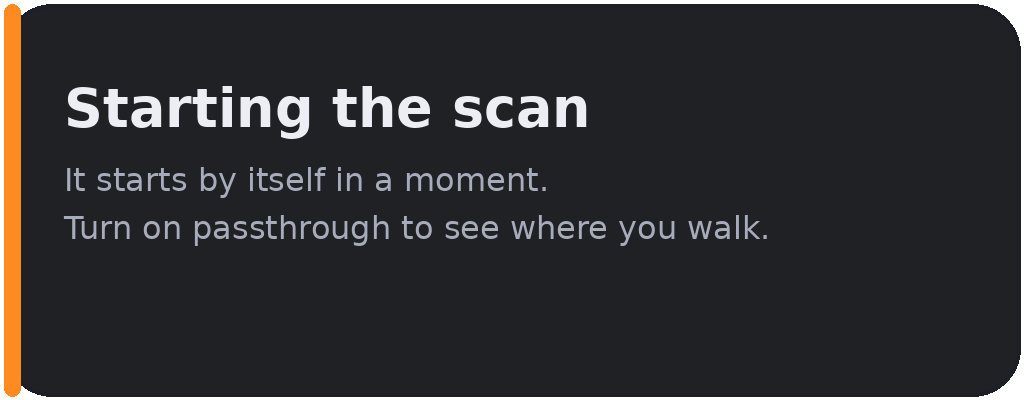
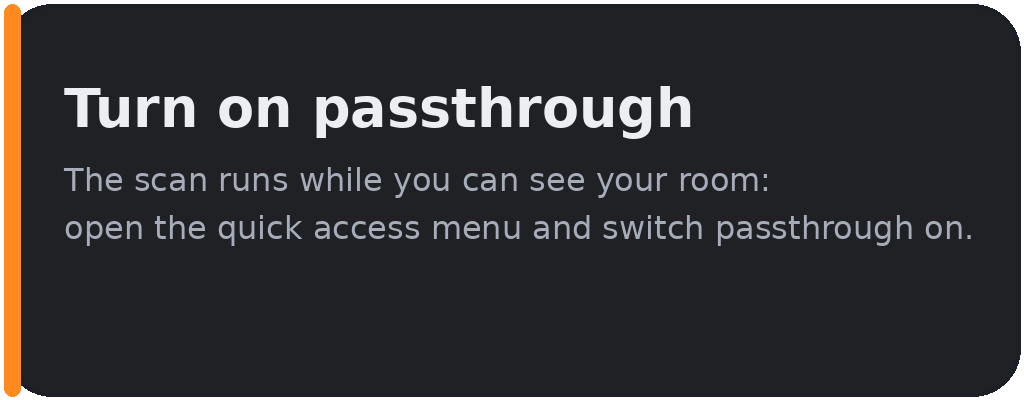
MR scan: record only while passthrough streams meshes (a leftover block started a scan), pause + prompt when it stops, refuse scans under 30 frames

Changed region(s): [[0.0625, 0.21, 0.6875, 0.36], [0.0625, 0.54, 0.9375, 0.63], [0.0625, 0.42, 0.75, 0.48]]

diff --git a/agent/frameport_agent.py b/agent/frameport_agent.py
@@ -4955,10 +4955,14 @@ ROOM_SCAN_LOOK_FRAMES = 5   # recorded frames looking up / down (~1.7 s at 3/s) 
 ROOM_SCAN_MIN_SECONDS = 30  # a complete scan still records this long (more views of every wall)
 
 
-def _prompt_for(started, yaw_bins, pitch):
-    """Which prompt image the headset shows. Valve computes the depth view whenever the cameras run (passthrough
-    visible or not), so "start" is only shown until the first mesh arrives."""
-    if started is None:
+ROOMVIEW_STREAM_MESHES = 3     # new meshes within ROOMVIEW_STREAM_WINDOW s = passthrough is on (Valve: ~30/s)
+ROOMVIEW_STREAM_WINDOW = 2.0
+ROOM_SCAN_MIN_FRAMES = 30      # fewer recorded frames is no room: refused instead of replacing the saved one
+
+
+def _prompt_for(started, yaw_bins, pitch, streaming=True):
+    """Which prompt image the headset shows: "start" (turn on passthrough) whenever no meshes stream, also mid-scan."""
+    if started is None or not streaming:
         return "start"
     if len(yaw_bins) >= 10 and pitch["up"] < ROOM_SCAN_LOOK_FRAMES:
         return "ceiling"
@@ -4983,9 +4987,12 @@ def capture_roomview(seconds, out_path, wait=0.0, max_hz=3.0, progress=None, pro
     offsets, raw_poses = [], []
     yaw_bins, pitch = set(), {"up": 0, "down": 0}
     indices, layout_id, last_mesh, last_write = None, None, None, 0.0
-    last_new = 0.0  # when a new mesh id last arrived: meshIsUpToDate stays true after the headset comes off
+    # Valve only computes new meshes while passthrough is shown; a queue's last block (and meshIsUpToDate) stays
+    # after it stops. So "streaming" = ROOMVIEW_STREAM_MESHES new mesh ids within ROOMVIEW_STREAM_WINDOW seconds, and
+    # frames are recorded only then (2026-10-16: a scan started on one leftover block and recorded nothing else).
+    arrivals = []
     seen_mesh = None
-    started = None
+    started, paused_since, paused_total = None, None, 0.0
     t_end = time.time() + (wait or seconds)
     next_progress = time.time()
     try:
@@ -4993,16 +5000,26 @@ def capture_roomview(seconds, out_path, wait=0.0, max_hz=3.0, progress=None, pro
             f.write(b"FPRS" + struct.pack("<I", 1))
             while time.time() < t_end:
                 now = time.time()
+                arrivals = [t for t in arrivals if now - t < ROOMVIEW_STREAM_WINDOW]
+                streaming = len(arrivals) >= ROOMVIEW_STREAM_MESHES
+                if started is not None:  # passthrough off mid-scan: the countdown waits (at most `wait` in all)
+                    if not streaming and paused_since is None:
+                        paused_since = now
+                    elif streaming and paused_since is not None:
+                        pause = min(now - paused_since, max(0.0, (wait or seconds) - paused_total))
+                        t_end += pause
+                        paused_total += pause
+                        paused_since = None
                 if _scan_complete(started, now, yaw_bins, pitch):
                     break  # every direction, the ceiling and the floor seen: "Room scanned" at once
                 if now >= next_progress:
-                    live = now - last_new < 2.0
                     if prompt:
-                        prompt.show(_prompt_for(started, yaw_bins, pitch))
+                        prompt.show(_prompt_for(started, yaw_bins, pitch, streaming))
                     if progress:
                         progress({"recording": started is not None, "frames": len(offsets),
-                                  "seconds": round(now - started, 1) if started else 0,
-                                  "directions": len(yaw_bins), "looked_up": pitch["up"], "live": live})
+                                  "seconds": round(now - started - paused_total, 1) if started else 0,
+                                  "directions": len(yaw_bins), "looked_up": pitch["up"],
+                                  "looked_down": pitch["down"], "live": streaming})
                     next_progress = now + 1
                 blk, buf = rv.acquire(rv.data, 1, 200)  # EBlockQueueReadType_New
                 if blk is None:
@@ -5010,8 +5027,9 @@ def capture_roomview(seconds, out_path, wait=0.0, max_hz=3.0, progress=None, pro
                 try:
                     mesh_id = rv.prop(blk.value, "/meshData/meshId", "<Q")
                     if mesh_id != seen_mesh:
-                        seen_mesh, last_new = mesh_id, now
-                    if not rv.up_to_date() or now - last_write < 1.0 / max_hz:
+                        seen_mesh = mesh_id
+                        arrivals.append(now)
+                    if not streaming or not rv.up_to_date() or now - last_write < 1.0 / max_hz:
                         continue
                     lid = rv.prop(blk.value, "/meshData/layoutId", "<Q")
                     count = rv.prop(blk.value, "/meshData/elementCount", "<i") or 0
@@ -5121,8 +5139,9 @@ def room_capture_worker(payload):
                                    prompts=ROOM_SCAN_PROMPTS if os.path.isdir(ROOM_SCAN_PROMPTS) else None)
         status.update(capture=summary, state="building")
         _write_json(ROOM_SCAN_STATUS, status)
-        if not summary["frames"]:
-            raise AgentError("No passthrough view arrived: turn on passthrough in the headset and scan again")
+        if summary["frames"] < ROOM_SCAN_MIN_FRAMES:  # never replace a saved room with a scrap of one
+            raise AgentError("The scan saw too little of the room: keep passthrough on, look around until the "
+                             "headset says \"Room scanned\", and scan again")
         built = cmd_room_build({"dump": dump})
         status.update(state="done", report=built.get("report"), room=built.get("room"), finished=time.time())
     except Exception as exc:  # noqa: BLE001 - every failure ends in the status file the PC polls

diff --git a/tests/test_room_capture.py b/tests/test_room_capture.py
@@ -60,13 +60,14 @@ def test_view_coverage_bins(monkeypatch, tmp_path):
 
 
 class FakeReader:
-    """Two fresh mesh blocks, then nothing; raw->standing moves the floor by +0.5 m at the end."""
+    """A stream of six fresh mesh blocks (alternately facing 0 / 90 deg), then nothing; raw->standing moves the
+    floor by +0.5 m at the end. The first two only make the stream count as "passthrough on"."""
 
-    def __init__(self, app_type=None):
+    def __init__(self, app_type=None, blocks=6):
         import ctypes
 
         self.ct = ctypes
-        self.blocks = [(1, rot_y(0, (0, 1.0, 0))), (2, rot_y(90, (0, 1.0, 0)))]
+        self.blocks = [(i, rot_y(90 * (i % 2 == 0), (0, 1.0, 0))) for i in range(1, blocks + 1)]
         self.verts = ctypes.create_string_buffer(struct.pack("<9f", *range(9)))
         self.idx = ctypes.create_string_buffer(struct.pack("<3I", 0, 1, 2))
         self.data, self.layout = "data", "layout"
@@ -102,19 +103,35 @@ def test_capture_rewrites_poses_with_final_transform(monkeypatch, tmp_path):
     a = load_agent(monkeypatch, tmp_path)
     monkeypatch.setattr(a, "_RoomViewReader", FakeReader)
     out = tmp_path / "scan.fprs"
-    clock = iter(i * 0.5 for i in range(1000))
+    clock = iter(i * 0.05 for i in range(10000))
     monkeypatch.setattr(a.time, "time", lambda: next(clock))
     res = a.capture_roomview(3, str(out), max_hz=100)
-    assert res["frames"] == 2
+    assert res["frames"] == 3  # blocks 4-6: three meshes had to stream before the first recorded one
     data = out.read_bytes()
     assert data[:8] == b"FPRS\x01\0\0\0"
     hdr = struct.calcsize(a.FPRS_FRAME)
     t, px, py, pz, qx, qy, qz, qw, vc, ic = struct.unpack_from(a.FPRS_FRAME, data, 8)
     assert (vc, ic) == (3, 3) and py == pytest.approx(1.5)  # raw y 1.0 + the final floor shift 0.5
+    assert qy == pytest.approx(math.sin(math.radians(45)))  # block 4 faces 90 deg
     second = 8 + hdr + 3 * 12 + 3 * 4
     _, _, py2, _, qx2, qy2, qz2, qw2, _, _ = struct.unpack_from(a.FPRS_FRAME, data, second)
-    assert py2 == pytest.approx(1.5) and qy2 == pytest.approx(math.sin(math.radians(45)))
+    assert py2 == pytest.approx(1.5) and qy2 == pytest.approx(0)  # block 5 faces 0 deg
     assert "ceiling not seen: look up" in res["warnings"]
+
+
+def test_capture_ignores_a_leftover_block(monkeypatch, tmp_path):
+    # passthrough off: the queue still hands out its last block once; that is no scan (owner's run, 2026-10-16)
+    a = load_agent(monkeypatch, tmp_path)
+    monkeypatch.setattr(a, "_RoomViewReader", lambda app_type=None: FakeReader(app_type, blocks=1))
+    clock = iter(i * 0.05 for i in range(10000))
+    monkeypatch.setattr(a.time, "time", lambda: next(clock))
+    res = a.capture_roomview(3, str(tmp_path / "scan.fprs"), max_hz=100)
+    assert res["frames"] == 0 and res["warnings"][0].startswith("no passthrough")
+
+
+def test_prompt_asks_for_passthrough_whenever_the_stream_stops(monkeypatch, tmp_path):
+    a = load_agent(monkeypatch, tmp_path)
+    assert a._prompt_for(5.0, {0, 1}, {"up": 0, "down": 0}, streaming=False) == "start"
 
 
 def test_capture_worker_status(monkeypatch, tmp_path):
@@ -123,9 +140,12 @@ def test_capture_worker_status(monkeypatch, tmp_path):
     a.room_capture_worker(json.dumps({"seconds": 10, "wait": 0}))
     st = a.cmd_room_capture_status({})
     assert st["state"] == "failed" and "passthrough" in st["error"]
+    monkeypatch.setattr(a, "capture_roomview", lambda *args, **kw: {"frames": 12, "warnings": []})
+    a.room_capture_worker(json.dumps({"seconds": 10, "wait": 0}))  # a scrap of a scan never replaces a room
+    assert a.cmd_room_capture_status({})["state"] == "failed"
 
     built = {"report": {"walls": 4}, "room": {"universe": 7}}
-    monkeypatch.setattr(a, "capture_roomview", lambda *args, **kw: {"frames": 12, "warnings": []})
+    monkeypatch.setattr(a, "capture_roomview", lambda *args, **kw: {"frames": 40, "warnings": []})
     monkeypatch.setattr(a, "cmd_room_build", lambda args: built)
     a.room_capture_worker(json.dumps({"seconds": 10, "wait": 0}))
     st = a.cmd_room_capture_status({})

diff --git a/scripts/mr/render_prompts.py b/scripts/mr/render_prompts.py
@@ -24,8 +24,8 @@ ACCENT, SECONDARY, OK = (255, 138, 31, 255), (58, 168, 255, 255), (74, 222, 128,
 DIRECTIONS = 12
 
 PROMPTS = {
-    "start": ("Starting the scan", "It starts by itself in a moment.\n"
-              "Turn on passthrough to see where you walk."),
+    "start": ("Turn on passthrough", "The scan runs while you can see your room:\n"
+              "open the quick access menu and switch passthrough on."),
     "ceiling": ("Look up at the ceiling", "Hold it for a few seconds,\n"
                 "then look back down and keep turning."),
     "floor": ("Look down at the floor", "Hold it for a few seconds,\nthen keep turning."),
